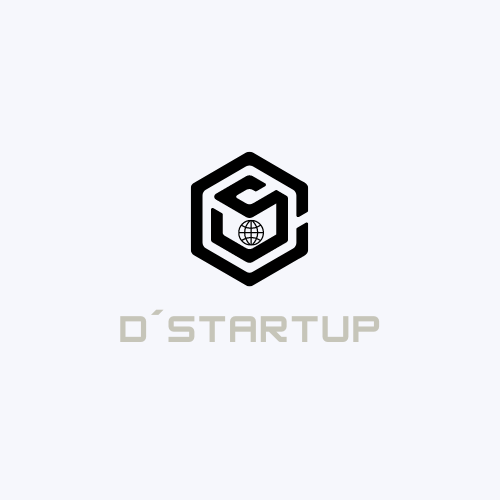
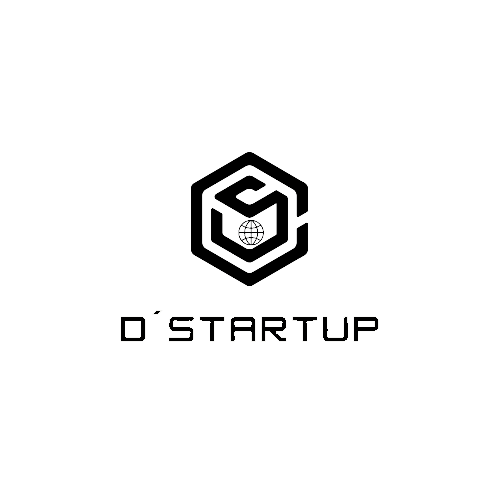
1.1
Falta quienes somos

diff --git a/servicios.html b/servicios.html
@@ -13,7 +13,7 @@
 <body>
     <header class = "nav">
         <ul>
-            <li><img src="imagenes/logito.png" alt=""></li>
+            <li><img src="imagenes/logonav.png" alt=""></li>
             <li><a href="/index.html">Home</a></li>
             <li><a href="/servicios.html">Servicios</a></li>
             <li><a href="#integrantes">¿Quienes somos?</a></li>
@@ -23,10 +23,25 @@
 
     <h2 id="subtitulo"> Que ofrecemos?</h2>
     <section class="content">
-    <p id="caja">servicios</p>
-    <p id="caja">servicios</p>
-    <p id="caja">servicios</p>
-    <p id="caja">servicios</p>
+    
+    <div id="caja"><h3>Diseño y Programación de Páginas Web</h3><img src="/imagenes/dsw-removebg-preview.png" alt="">
+        Creación de páginas web de calidad desde cero o mejorables, con diseño adaptable a cualquier plataforma y con una estructura apta para lograr un posicionamiento óptimo en los buscadores
+    </div>
+    <div id="caja">
+    <h3>Diseño Sitios Web Móviles Responsive</h3>
+    <img src="/imagenes/dswr-removebg-preview.png" alt="">
+    <p>Sitios web responsive compatibles con smartphones como Iphone, blackberry, Android y similares, y tablets. Páginas optimizadas para mejorar la navegabilidad del usuario.</p>
+    </div>
+    <div id="caja">
+    <h3> Servicio de Soporte de PC y Web</h3>
+    <img src="/imagenes/soporte2-removebg-preview.png" alt="">
+    <p>Análisis, Configuración, Protección, Backups y Soporte Técnico para los equipos de tu empresa.</p>
+    </div>
+    <div id="caja">
+    <h3>Diseño Gráfico / Identidad Corporativa</h3>
+    <img src="/imagenes/images-removebg-preview.png" alt="">
+    <p>Diseño de logo y marca de tu empresa. Slogan publicitario, estrategias de marketing. Evaluación de impacto visual.</p>
+    </div>
     </section>
 
 

diff --git a/index.html b/index.html
@@ -13,7 +13,7 @@
 <body>
     <header class ="nav">
         <ul>
-            <li><img src="imagenes/logito.png" alt=""></li>
+            <li><img src="imagenes/logonav.png" alt=""></li>
             <li><a href="/index.html">Home</a></li>
             <li><a href="/servicios.html">Servicios</a></li>
             <li><a href="#integrantes">¿Quienes somos?</a></li>
@@ -22,7 +22,6 @@
     </header>
     
 <div class="encabezado">
-    <h1>D´StartUp</h1>
     <img src="imagenes/logito.png" alt="">
     <p>Con nuestro equipo de diseñadores, ilustradores y programadores talentosos y experimentados, podemos administrar prácticamente cualquier proyecto de diseño, grande o pequeño. Simplemente háganos saber acerca de su empresa o producto e intentaremos encontrar una solución para que su negocio se destaque entre la multitud.</p>
     <p> Nos encanta trabajar con emprendedores porque les apasionan sus productos tanto como a nosotros. Ya sea que necesiten una web nueva o un rediseño completo del sitio web, queremos ayudarlos y hacer realidad sus sueños.</p>

diff --git a/style.css b/style.css
@@ -24,14 +24,16 @@ background: #393D3F;
     color: #FFFFFF;
     list-style: none;
 }
+
+
 .nav ul li{
     margin-top: 40px ;
     margin-left: 1.5%;
 
 }
 .nav ul li img{
-    height: 40px;
-    margin-top: -10px;
+    height: 150px;
+    margin-top: -55px;
 }
 
 
@@ -49,7 +51,6 @@ background: #393D3F;
 .encabezado{
     padding: 30px;
     margin:auto;
-    margin-top: 100px;
     margin-bottom: 100px;
     width: 80%;
     background: #C6C5B9;
@@ -60,9 +61,8 @@ background: #393D3F;
 
 
 .encabezado img {
-    margin-top: 23px;
-    width: 200px;
-    height: 200px;
+    
+    height: auto;
     left: 30px;
 }
 
@@ -97,11 +97,17 @@ background: #393D3F;
     margin-left: 1%;
     margin-top: 7%;
     text-align: center;
-    width: 259px;
-    height: 279px;
+    width: 500px;
+    height: auto ;
     background: #D9D9D9;
     border-radius: 25px;
 }
+#caja img {
+    height: 200px;
+    width: auto;
+}
+
+
 
 #formulario{   
     padding: 30px;

diff --git a/contacto.html b/contacto.html
@@ -14,7 +14,7 @@
     <header class="nav">
         <nav>
         <ul>
-            <li><img src="imagenes/logito.jpg" alt=""></li>
+            <li><img src="imagenes/logonav.png" alt=""></li>
             <li><a href="/index.html">Home</a></li>
             <li><a href="/servicios.html">Servicios</a></li>
             <li><a href="#integrantes">¿Quienes somos?</a></li>
